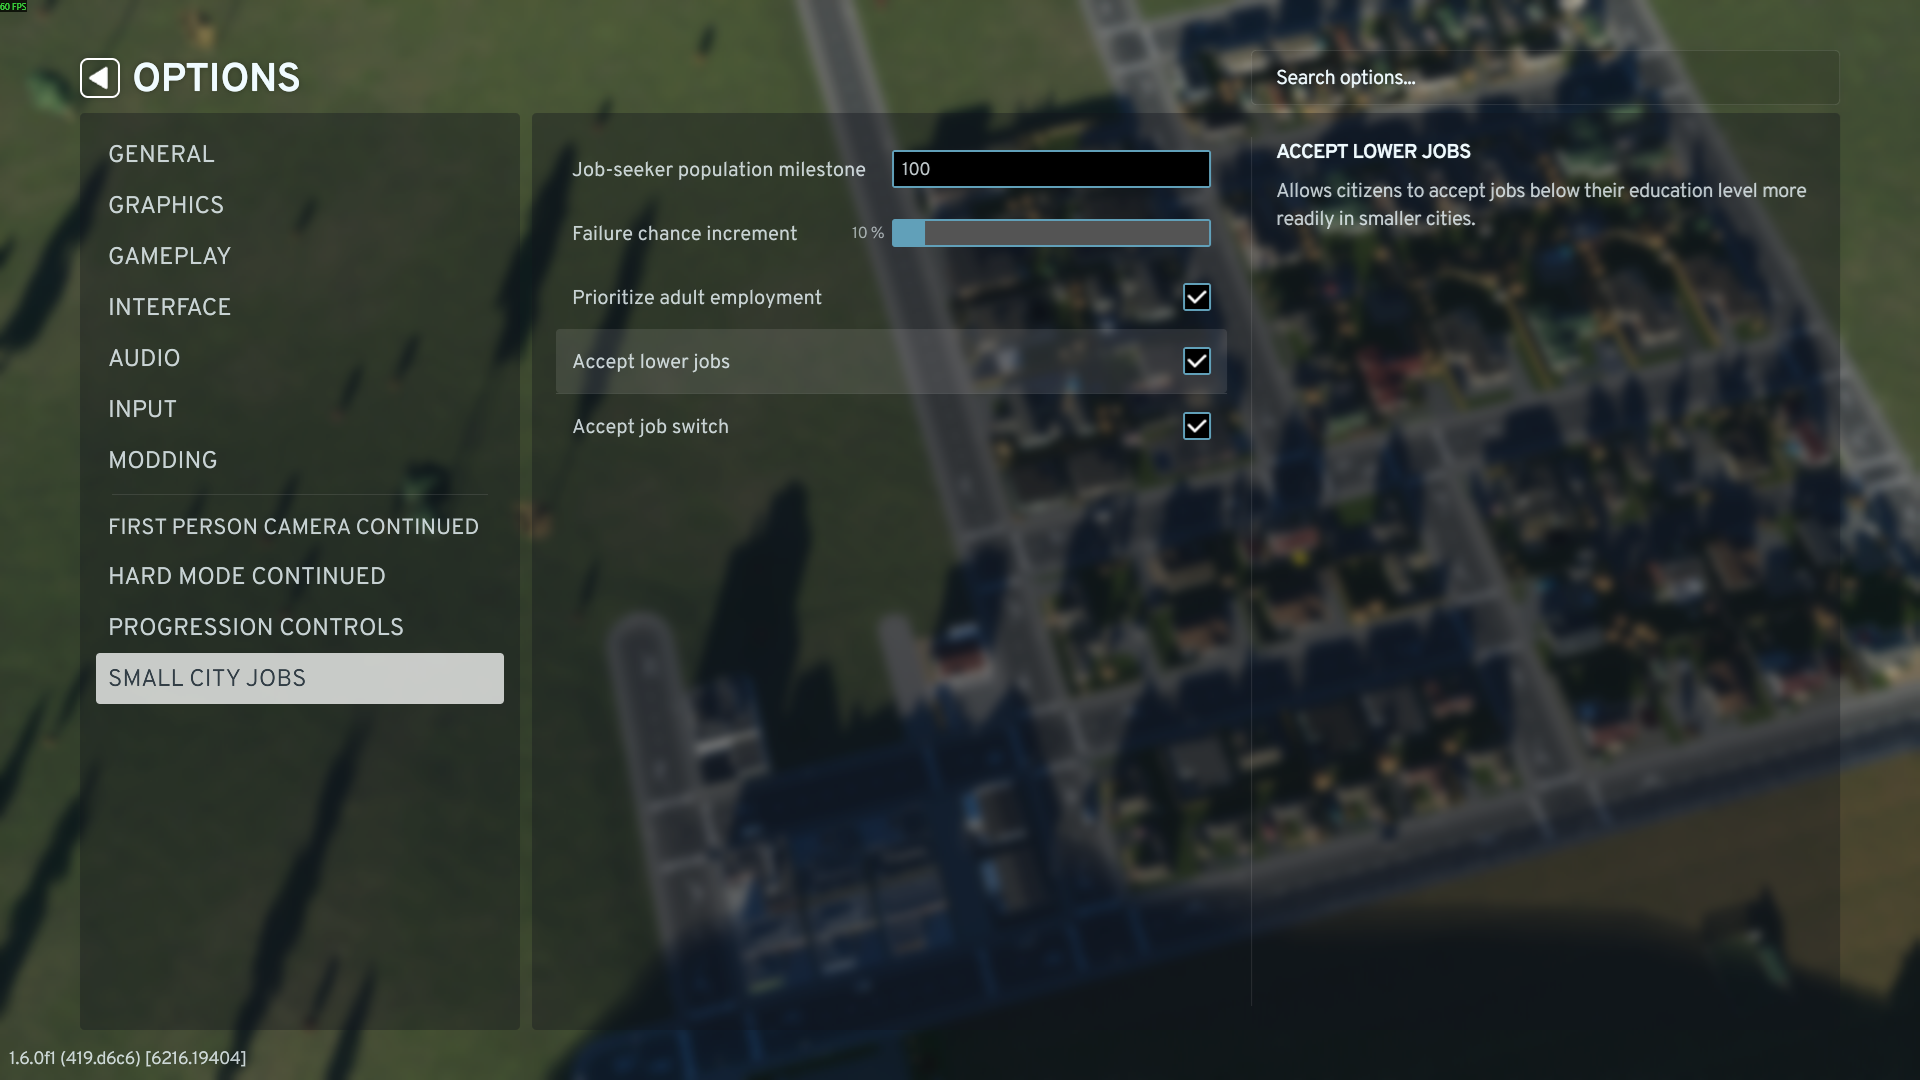
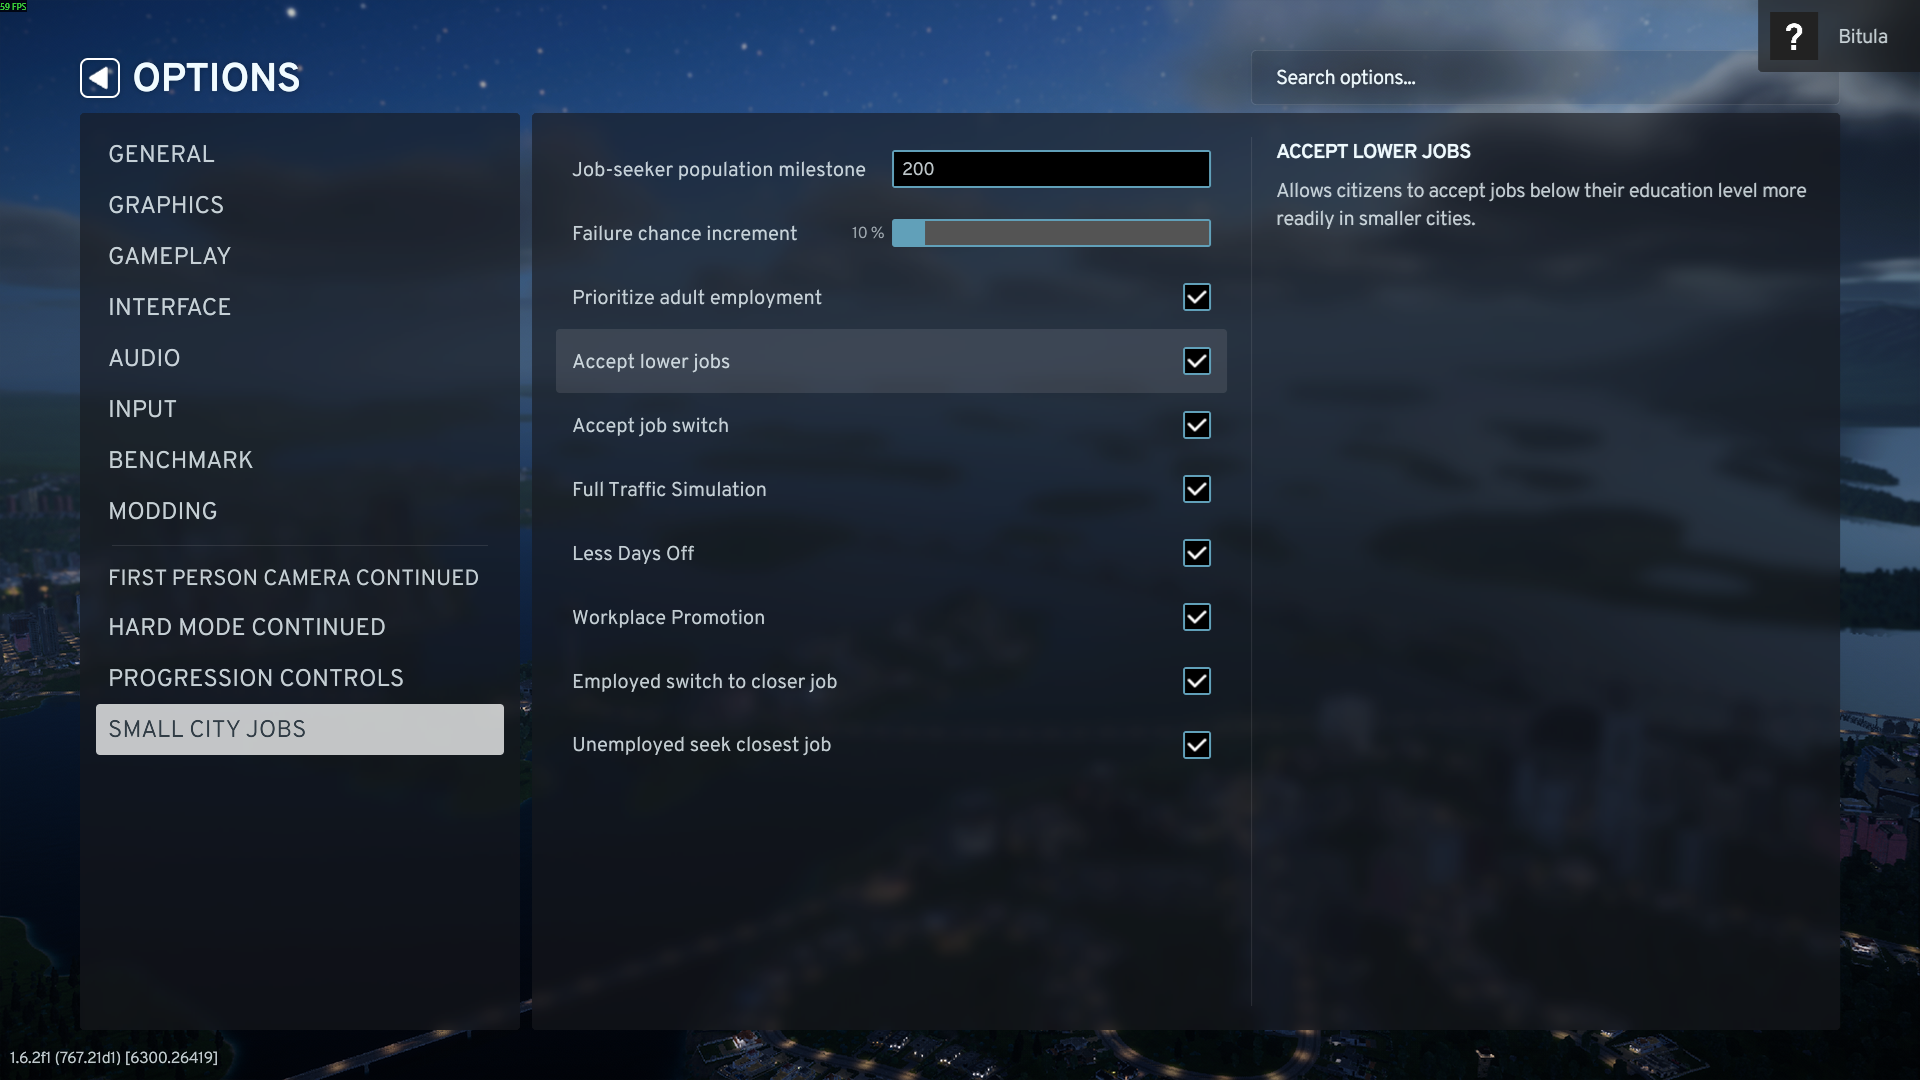
Differentiate no-job job-switch messages

diff --git a/Setting.cs b/Setting.cs
@@ -17,7 +17,7 @@ namespace BitulaMod
         {
         }
 
-        public int JobSeekerMilestone = 100;
+        public int JobSeekerMilestone = 200;
 
         [SettingsUISection("JobSeeking")]
         [SettingsUITextInput]
@@ -66,7 +66,7 @@ namespace BitulaMod
 
         public override void SetDefaults()
         {
-            JobSeekerMilestoneText = "100";
+            JobSeekerMilestoneText = "200";
             JobSeekerFailureIncrement = 10;
             PrioritizeAdultEmployment = true;
             AcceptLowerJobs = true;
@@ -98,6 +98,7 @@ namespace BitulaMod
             indexCounts["BitulaMod.LIFEPATH_EmployerGone"] = 1;
             indexCounts["BitulaMod.LIFEPATH_EmployerReturned"] = 1;
             indexCounts["BitulaMod.LIFEPATH_CantSwitchJob"] = 1;
+            indexCounts["BitulaMod.LIFEPATH_NoSuitableSwitch"] = 1;
             indexCounts["BitulaMod.LIFEPATH_FoundCloserJob"] = 1;
             indexCounts["BitulaMod.LIFEPATH_PromotedJob"] = 1;
             indexCounts["BitulaMod.LIFEPATH_CloserJobUnemployed"] = 1;
@@ -139,7 +140,8 @@ namespace BitulaMod
                 { "BitulaMod.LIFEPATH_WorkplaceGone:0", "Looks like my workplace is gone. I'll need to look for another job soon." },
                 { "BitulaMod.LIFEPATH_EmployerGone:0", "Looks like my employer is gone. I'll need to look for another job soon." },
                 { "BitulaMod.LIFEPATH_EmployerReturned:0", "Looks like my employer is back." },
-                { "BitulaMod.LIFEPATH_CantSwitchJob:0", "I would like a better job, but there are none available." },
+                { "BitulaMod.LIFEPATH_CantSwitchJob:0", "I would like a better job, but there are no other jobs in this city." },
+                { "BitulaMod.LIFEPATH_NoSuitableSwitch:0", "I would like a better job, but none of the available jobs are suitable." },
                 { "BitulaMod.LIFEPATH_FoundCloserJob:0", "I found a job closer to home than my current workplace." },
                 { "BitulaMod.LIFEPATH_PromotedJob:0", "I was promoted to a better position at my workplace." },
 

diff --git a/SmallCityJobs.cs b/SmallCityJobs.cs
@@ -21,6 +21,7 @@ namespace BitulaMod
     public struct SmallCityJobs
     {
         private const int VanillaWorkspaceThreshold = 100;
+        private const int VanillaSwitchDesireThreshold = 500;
         private Entity m_Citizen;
         private bool m_UseSmallCityBehaviour;
         private SmallCityJobsPhase m_Phase;
@@ -253,12 +254,14 @@ namespace BitulaMod
         }
 
         public bool EmployedSkippedApplication(int numJobs, int currentJobLevel, int highestAvailableJobLevel, Entity citizen) {
-            if (numJobs == 0)  Send(citizen, CustomEventType.CantSwitchJob);            
-            if (numJobs <= 0)
+
+            if (numJobs <= 0) {
+                Send(citizen, CustomEventType.CantSwitchJob);
                 return true;
+            }
 
             bool useSmallCityBehavior = UseSmallCityBehavior(citizen);
-            bool vanillaSkipped = numJobs <= VanillaWorkspaceThreshold || numJobs < m_Random.NextInt(500);
+            bool vanillaSkipped = numJobs <= VanillaWorkspaceThreshold || numJobs < m_Random.NextInt(VanillaSwitchDesireThreshold);
             
             if (!m_AcceptSwitchJobs)
                 return vanillaSkipped;
@@ -287,11 +290,15 @@ namespace BitulaMod
                     Send(citizen, CustomEventType.DoesntWantBetterJob);
                 }
             }
+            bool noSuitableJobs = !hasBetterJob && !hasCloserJob;
+            
+            if (noSuitableJobs)
+                Send(citizen, CustomEventType.NoSuitableSwitch);
 
             if (!useSmallCityBehavior)
                 return vanillaSkipped;
 
-            return !hasBetterJob && !hasCloserJob;
+            return noSuitableJobs;
         }
 
         public void SetHint(byte hint) {

diff --git a/CustomActions.cs b/CustomActions.cs
@@ -20,6 +20,7 @@ namespace BitulaMod
         EmployerReturned = 109,
         FoundCloserJob = 110,
         PromotedJob = 111,
+        NoSuitableSwitch = 112,
         DebugMessage = 200,
     }
 }
